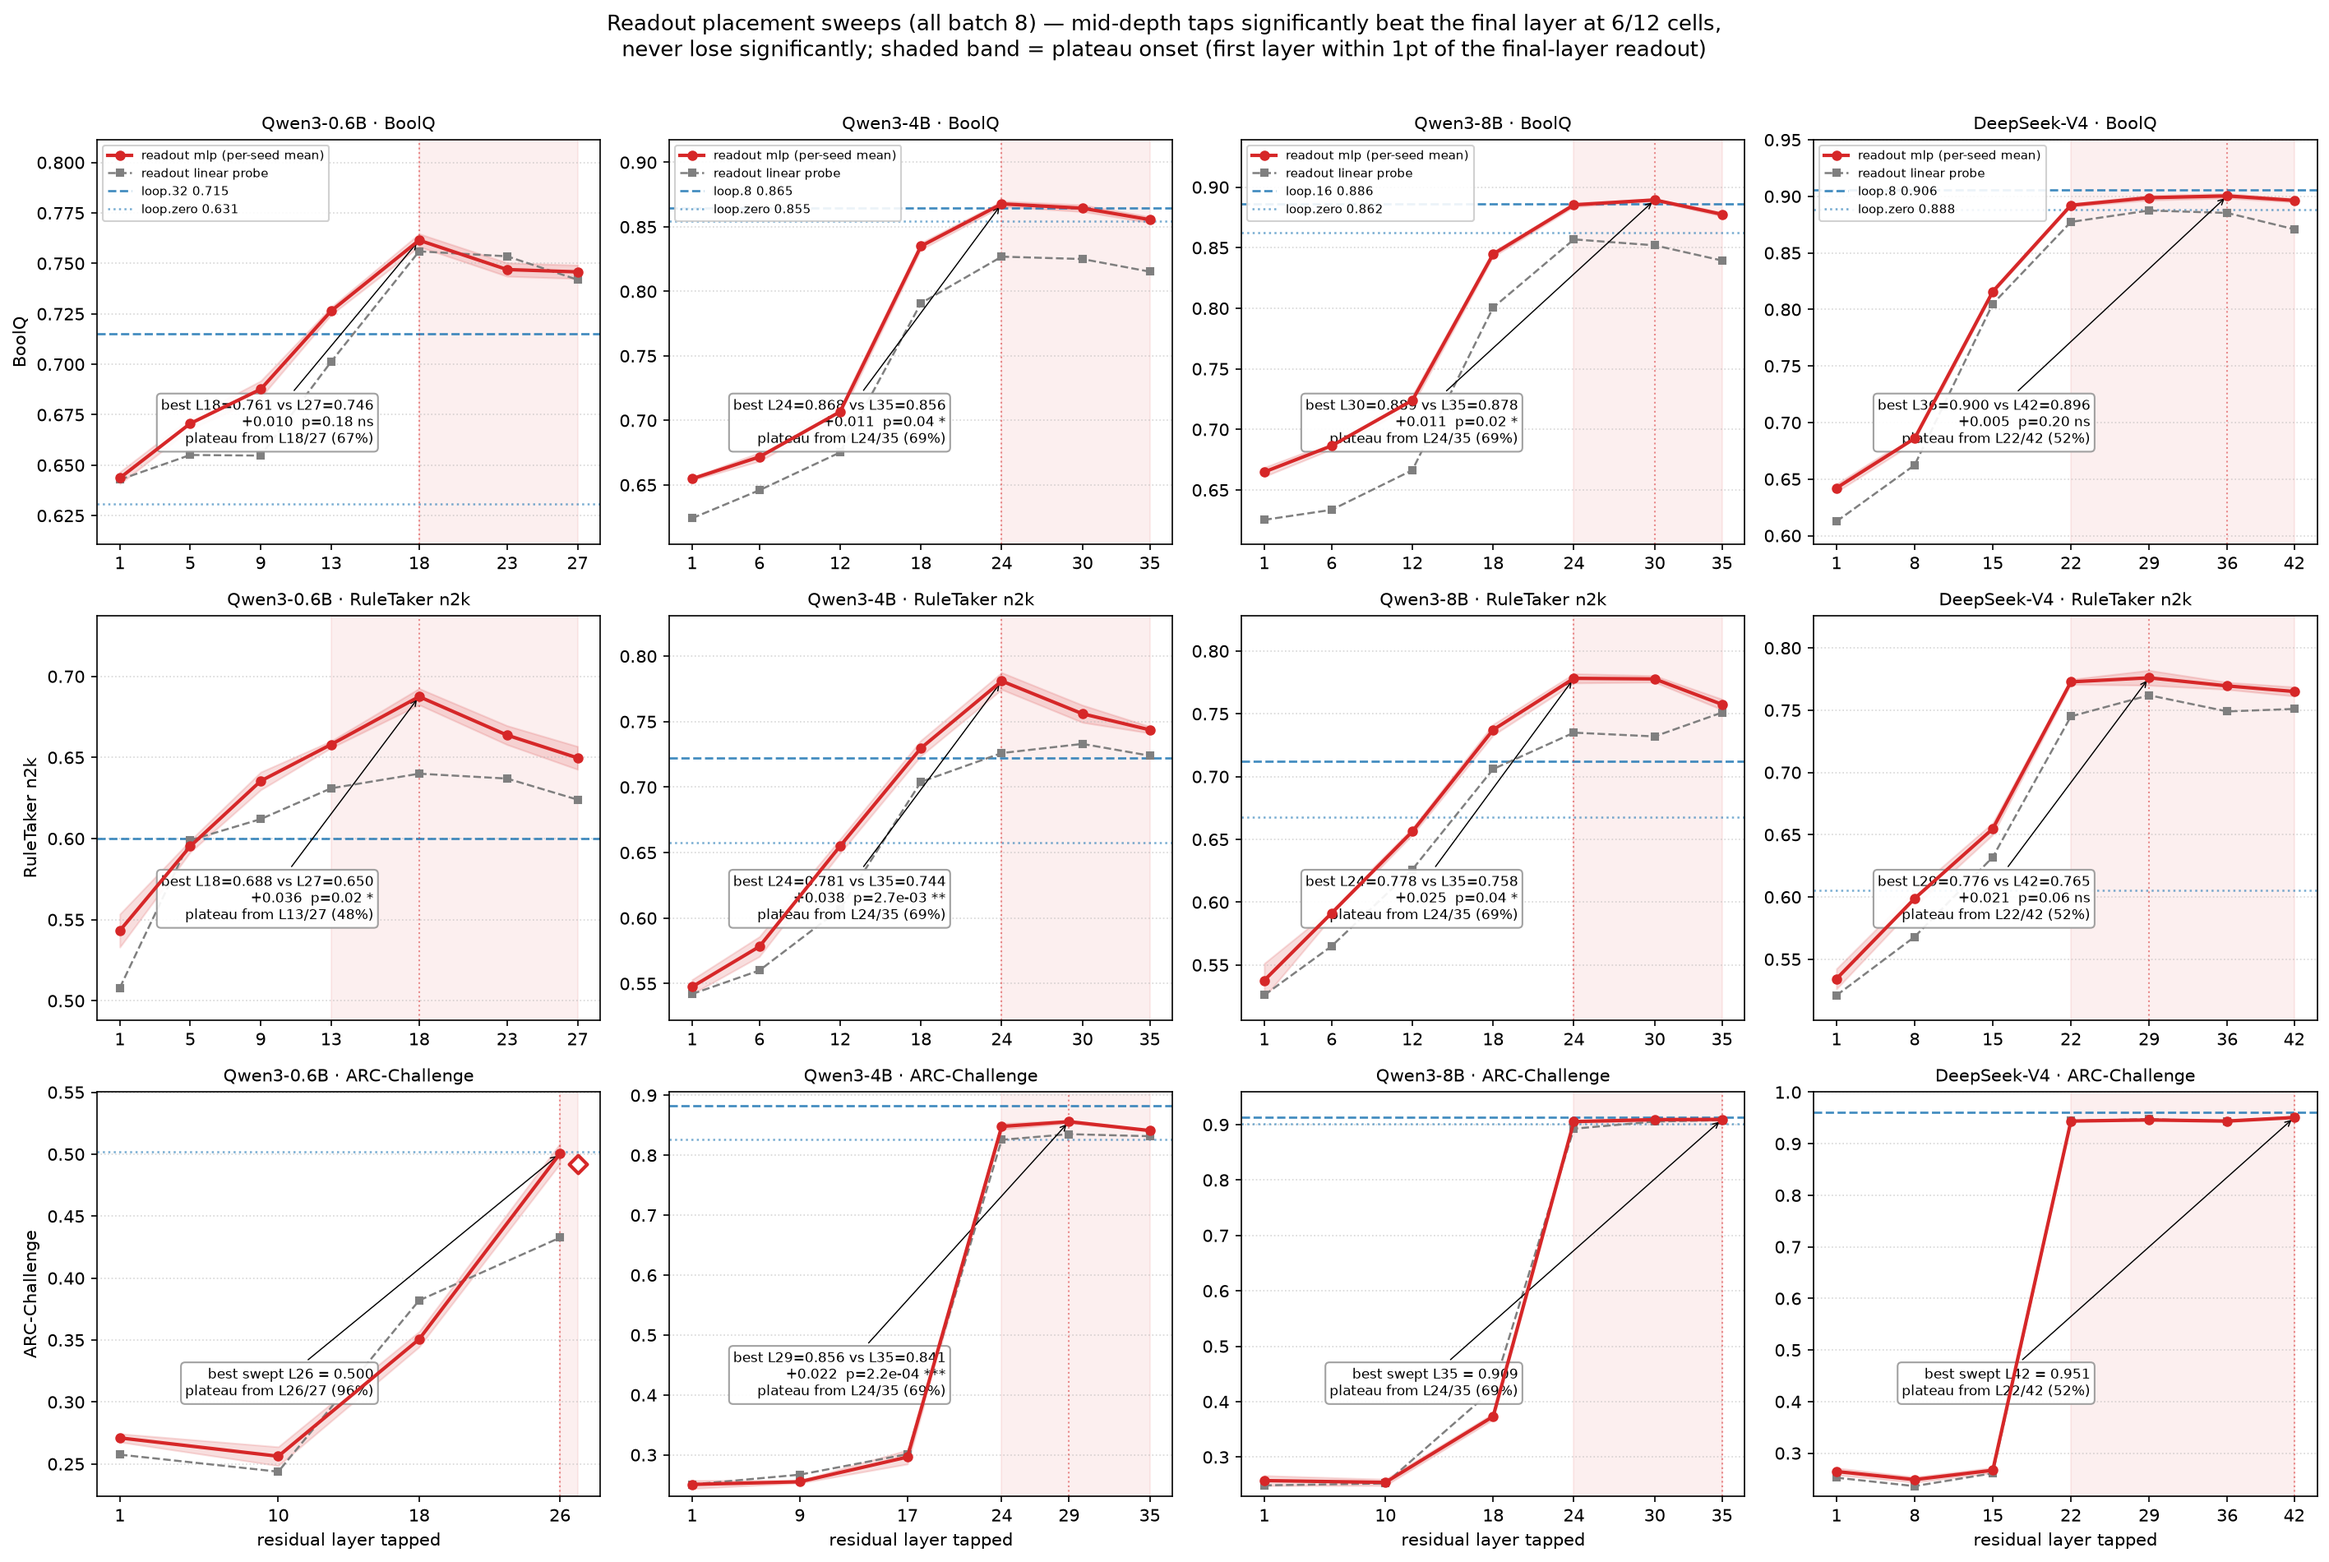
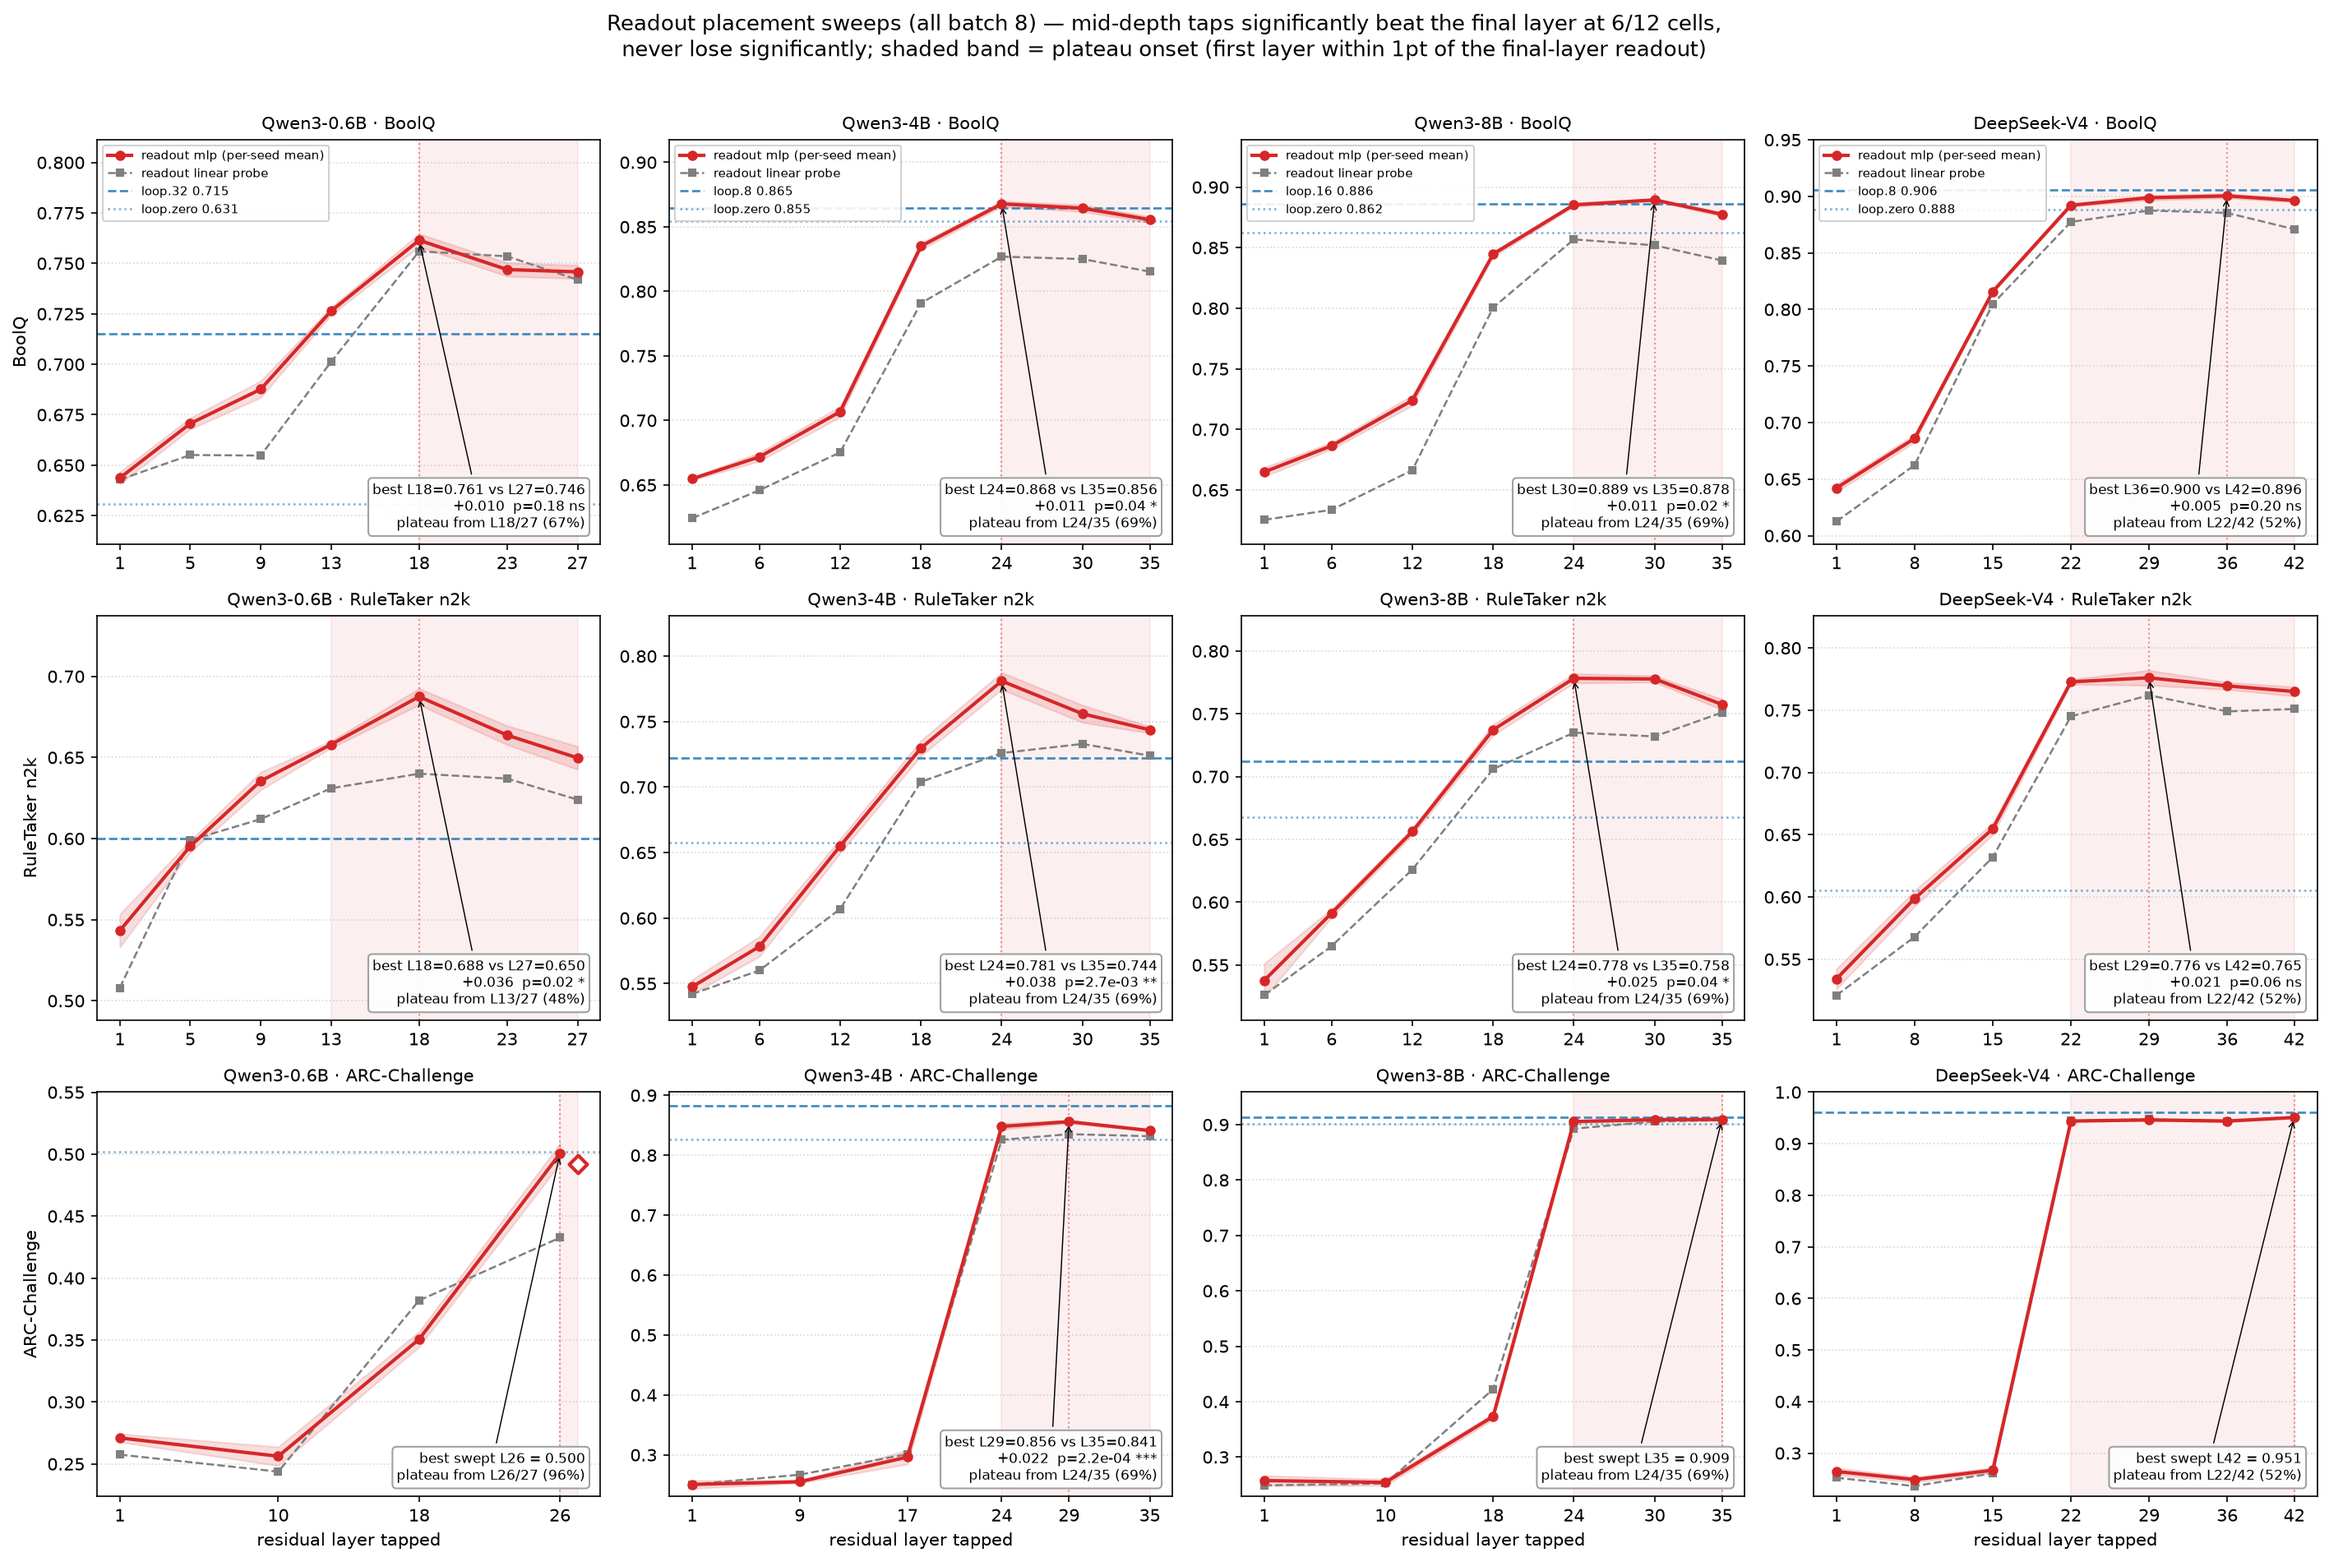
Layers column replaces N-of-M cells; sweep labels anchored bottom-right
Table 2 (RESULTS.md + paper/main_tables.pdf): stack depth (28/36/36/43) is
now its own 'Layers' column after Model; best-tap and plateau-onset cells
are bare layer indices (L18, L24 (69%), L22 (52%)).

Figure: per-panel annotation boxes moved to bottom-right (ha=right,
va=bottom) so they no longer collide with the sweep curves.

diff --git a/paper/main_tables.tex b/paper/main_tables.tex
@@ -62,8 +62,8 @@ Task & Model & Readout & loop.0 & loop.k & $\Delta$ & $p$ (McNemar) \\
 \centering
 \caption{\textbf{Readout probe-placement sweeps} (12 cells, all batch 8):
 best mid-depth tap vs the final-layer readout, paired McNemar on identical
-rows. Layers are given as $N/M$ = layer $N$ of $M$ (final layer's index;
-28/36/36/43-layer stacks). \emph{Plateau onset} = first swept layer within
+rows. \emph{Layers} = stack depth (28/36/36/43); taps are residual-layer
+indices. \emph{Plateau onset} = first swept layer within
 1\,pt of the final-layer readout — the verdict representation is fully
 assembled from there on; at DeepSeek-V4 this happens by L22/42 (52\% depth)
 on \emph{all three tasks}, with ARC showing the sharpest snap-in
@@ -71,27 +71,27 @@ on \emph{all three tasks}, with ARC showing the sharpest snap-in
 6/12 cells and never lose significantly.}
 \label{tab:placement}
 \small
-\begin{tabular}{@{}llccccccc@{}}
+\begin{tabular}{@{}llcccccccc@{}}
 \toprule
-Task & Model & Best tap & Depth & Plateau onset & mlp (best) & mlp (final) & $\Delta$ & $p$ \\
+Task & Model & Layers & Best tap & Depth & Plateau onset & mlp (best) & mlp (final) & $\Delta$ & $p$ \\
 \midrule
 \multirow{4}{*}{BoolQ}
- & Qwen3-0.6B & L18/27 & 64\% & L18/27 (67\%) & 0.761 & 0.746 & $+0.010$ & 0.18 \\
- & Qwen3-4B   & L24/35 & 67\% & L24/35 (69\%) & 0.868 & 0.856 & \sd{+0.011}\pstar & 0.038 \\
- & Qwen3-8B   & L30/35 & 83\% & L24/35 (69\%) & 0.889 & 0.878 & \sd{+0.011}\pstar & 0.016 \\
- & DeepSeek-V4-Flash & L36/42 & 86\% & \sd{L22/42 (52\%)} & 0.900 & 0.896 & $+0.005$ & 0.20 \\
+  & Qwen3-0.6B & 28 & L18 & 64\% & L18 (67\%) &0.761 & 0.746 & $+0.010$ & 0.18 \\
+  & Qwen3-4B   & 36 & L24 & 67\% & L24 (69\%) &0.868 & 0.856 & \sd{+0.011}\pstar & 0.038 \\
+  & Qwen3-8B   & 36 & L30 & 83\% & L24 (69\%) &0.889 & 0.878 & \sd{+0.011}\pstar & 0.016 \\
+  & DeepSeek-V4-Flash & 43 & L36 & 86\% & \sd{L22 (52\%)} &0.900 & 0.896 & $+0.005$ & 0.20 \\
 \midrule
 \multirow{4}{*}{RuleTaker n2k}
- & Qwen3-0.6B & L18/27 & 64\% & \sd{L13/27 (48\%)} & 0.688 & 0.650 & \sd{+0.036}\pstar & 0.020 \\
- & Qwen3-4B   & L24/35 & 67\% & L24/35 (69\%) & 0.781 & 0.744 & \sd{+0.038}\pstarstar & $2.8\mathrm{e}{-03}$ \\
- & Qwen3-8B   & L24/35 & 67\% & L24/35 (69\%) & 0.778 & 0.758 & \sd{+0.025}\pstar & 0.040 \\
- & DeepSeek-V4-Flash & L29/42 & 67\% & \sd{L22/42 (52\%)} & 0.776 & 0.765 & $+0.021$ & 0.057 \\
+  & Qwen3-0.6B & 28 & L18 & 64\% & \sd{L13 (48\%)} &0.688 & 0.650 & \sd{+0.036}\pstar & 0.020 \\
+  & Qwen3-4B   & 36 & L24 & 67\% & L24 (69\%) &0.781 & 0.744 & \sd{+0.038}\pstarstar & $2.8\mathrm{e}{-03}$ \\
+  & Qwen3-8B   & 36 & L24 & 67\% & L24 (69\%) &0.778 & 0.758 & \sd{+0.025}\pstar & 0.040 \\
+  & DeepSeek-V4-Flash & 43 & L29 & 67\% & \sd{L22 (52\%)} &0.776 & 0.765 & $+0.021$ & 0.057 \\
 \midrule
 \multirow{4}{*}{ARC-Challenge}
- & Qwen3-0.6B & L26/27 & 93\% & L26/27 (96\%) & 0.500 & 0.492 & $+0.013$ & 0.082 \\
- & Qwen3-4B   & L29/35 & 81\% & L24/35 (69\%) & 0.856 & 0.841 & \sd{+0.022}\pstarstarstar & $2.2\mathrm{e}{-04}$ \\
- & Qwen3-8B   & L35/35 & 97\% & L24/35 (69\%) & 0.909 & 0.909 & $+0.001$ & 1.00 \\
- & DeepSeek-V4-Flash & L42/42 & 98\% & \sd{L22/42 (52\%)} & 0.951 & 0.951 & $-0.005$ & 0.29 \\
+  & Qwen3-0.6B & 28 & L26 & 93\% & L26 (96\%) &0.500 & 0.492 & $+0.013$ & 0.082 \\
+  & Qwen3-4B   & 36 & L29 & 81\% & L24 (69\%) &0.856 & 0.841 & \sd{+0.022}\pstarstarstar & $2.2\mathrm{e}{-04}$ \\
+  & Qwen3-8B   & 36 & L35 & 97\% & L24 (69\%) &0.909 & 0.909 & $+0.001$ & 1.00 \\
+  & DeepSeek-V4-Flash & 43 & L42 & 98\% & \sd{L22 (52\%)} &0.951 & 0.951 & $-0.005$ & 0.29 \\
 \bottomrule
 \end{tabular}
 \end{table}

diff --git a/plot_layersweep.py b/plot_layersweep.py
@@ -103,10 +103,9 @@ for row, task in enumerate(TASKS):
             txt = f"best swept L{L[best_i]} = {mlp[best_i]:.3f}"
         if onset is not None and onset < last_layer:
             txt += f"\nplateau from L{onset}/{last_layer} ({onset / last_layer * 100:.0f}%)"
-        frac_x, ha = (0.45, "left") if best_i < len(L) / 2 else (0.55, "right")
         ax.annotate(txt, xy=(L[best_i], mlp[best_i]),
-                    xytext=(frac_x, 0.25), textcoords="axes fraction",
-                    ha=ha, fontsize=8, color="black",
+                    xytext=(0.97, 0.03), textcoords="axes fraction",
+                    ha="right", va="bottom", fontsize=8, color="black",
                     bbox=dict(boxstyle="round,pad=0.3", fc="white", ec="0.6", alpha=0.92),
                     arrowprops=dict(arrowstyle="->", color="black", lw=0.7))
 

diff --git a/RESULTS.md b/RESULTS.md
@@ -565,23 +565,23 @@ Completed 2026-08-10 (Ext 15): DSV4 BoolQ/RuleTaker sweeps, the first-ever ARC
 sweeps (all four models), and the two missing Qwen cells (0.6B RuleTaker,
 4B BoolQ). Paired McNemar: best swept tap vs final layer, same rows.
 
-| task | model | best tap (N of M) | depth | plateau onset (≥final−1pt) | mlp (best) | mlp (final) | best−final | paired p |
-|---|---|---|---|---|---|---|---|---|
-| BoolQ | Qwen3-0.6B | L18/27 | 64% | L18/27 (67%) | 0.761 | 0.746 | +0.010 | 0.18 ns |
-| BoolQ | Qwen3-4B | L24/35 | 67% | L24/35 (69%) | 0.868 | 0.856 | +0.011 | **0.038 \*** |
-| BoolQ | Qwen3-8B | L30/35 | 83% | L24/35 (69%) | 0.889 | 0.878 | +0.011 | **0.016 \*** |
-| BoolQ | DeepSeek-V4 | L36/42 | 86% | **L22/42 (52%)** | 0.900 | 0.896 | +0.005 | 0.20 ns |
-| RuleTaker | Qwen3-0.6B | L18/27 | 64% | **L13/27 (48%)** | 0.688 | 0.650 | +0.036 | **0.020 \*** |
-| RuleTaker | Qwen3-4B | L24/35 | 67% | L24/35 (69%) | 0.781 | 0.744 | +0.038 | **2.8e-03 \*\*** |
-| RuleTaker | Qwen3-8B | L24/35 | 67% | L24/35 (69%) | 0.778 | 0.758 | +0.025 | **0.040 \*** |
-| RuleTaker | DeepSeek-V4 | L29/42 | 67% | **L22/42 (52%)** | 0.776 | 0.765 | +0.021 | 0.057 ns |
-| ARC | Qwen3-0.6B | L26/27 | 93% | L26/27 (96%) | 0.500 | 0.492 | +0.013 | 0.082 ns |
-| ARC | Qwen3-4B | L29/35 | 81% | L24/35 (69%) | 0.856 | 0.841 | +0.022 | **2.2e-04 \*\*\*** |
-| ARC | Qwen3-8B | L35/35 | 97% | L24/35 (69%) | 0.909 | 0.909 | +0.001 | 1.00 ns |
-| ARC | DeepSeek-V4 | L42/42 | 98% | **L22/42 (52%)** | 0.951 | 0.951 | −0.005 | 0.29 ns |
+| task | model | layers | best tap | depth | plateau onset (≥final−1pt) | mlp (best) | mlp (final) | best−final | paired p |
+|---|---|---|---|---|---|---|---|---|---|
+| BoolQ | Qwen3-0.6B | 28 | L18 | 64% | L18 (67%) | 0.761 | 0.746 | +0.010 | 0.18 ns |
+| BoolQ | Qwen3-4B | 36 | L24 | 67% | L24 (69%) | 0.868 | 0.856 | +0.011 | **0.038 \*** |
+| BoolQ | Qwen3-8B | 36 | L30 | 83% | L24 (69%) | 0.889 | 0.878 | +0.011 | **0.016 \*** |
+| BoolQ | DeepSeek-V4 | 43 | L36 | 86% | **L22 (52%)** | 0.900 | 0.896 | +0.005 | 0.20 ns |
+| RuleTaker | Qwen3-0.6B | 28 | L18 | 64% | **L13 (48%)** | 0.688 | 0.650 | +0.036 | **0.020 \*** |
+| RuleTaker | Qwen3-4B | 36 | L24 | 67% | L24 (69%) | 0.781 | 0.744 | +0.038 | **2.8e-03 \*\*** |
+| RuleTaker | Qwen3-8B | 36 | L24 | 67% | L24 (69%) | 0.778 | 0.758 | +0.025 | **0.040 \*** |
+| RuleTaker | DeepSeek-V4 | 43 | L29 | 67% | **L22 (52%)** | 0.776 | 0.765 | +0.021 | 0.057 ns |
+| ARC | Qwen3-0.6B | 28 | L26 | 93% | L26 (96%) | 0.500 | 0.492 | +0.013 | 0.082 ns |
+| ARC | Qwen3-4B | 36 | L29 | 81% | L24 (69%) | 0.856 | 0.841 | +0.022 | **2.2e-04 \*\*\*** |
+| ARC | Qwen3-8B | 36 | L35 | 97% | L24 (69%) | 0.909 | 0.909 | +0.001 | 1.00 ns |
+| ARC | DeepSeek-V4 | 43 | L42 | 98% | **L22 (52%)** | 0.951 | 0.951 | −0.005 | 0.29 ns |
 
-("N of M": tapped layer index of the final layer's index — 28/36/36/43-layer
-stacks. **Plateau onset** = first swept layer within 1pt of the final-layer
+(**Layers** = stack depth (28/36/36/43); taps are residual-layer indices.
+**Plateau onset** = first swept layer within 1pt of the final-layer
 readout; the verdict representation is fully assembled from there on. Note
 DSV4 reaches final-layer quality by **L22/42 — 52% depth — on all three
 tasks**, and ARC shows the sharpest "snap-in" (near-chance at L15 → 0.944 at
